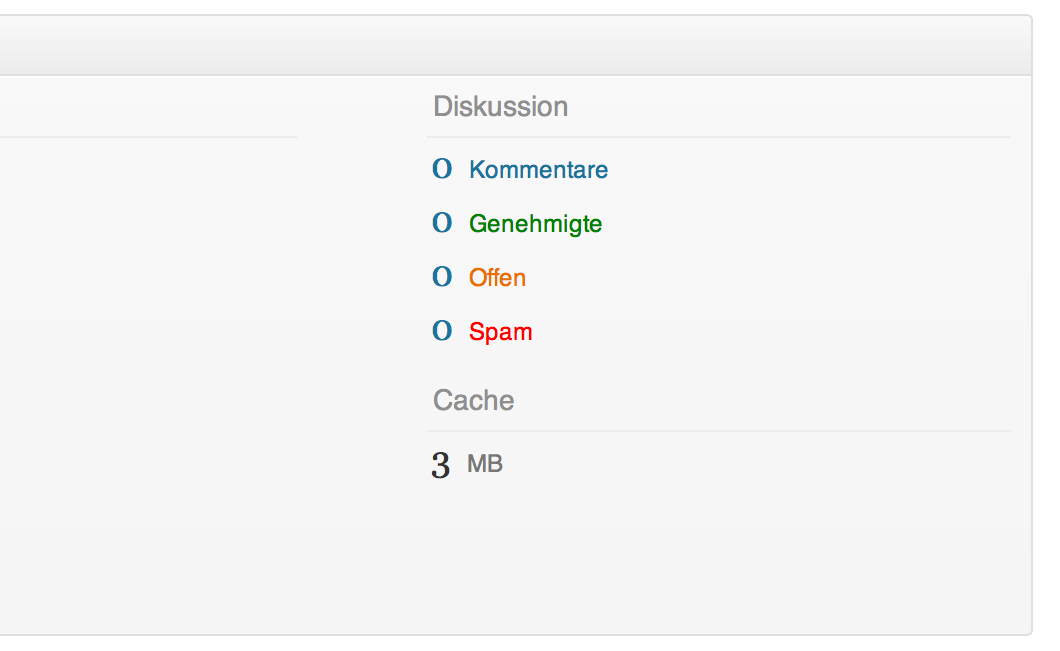
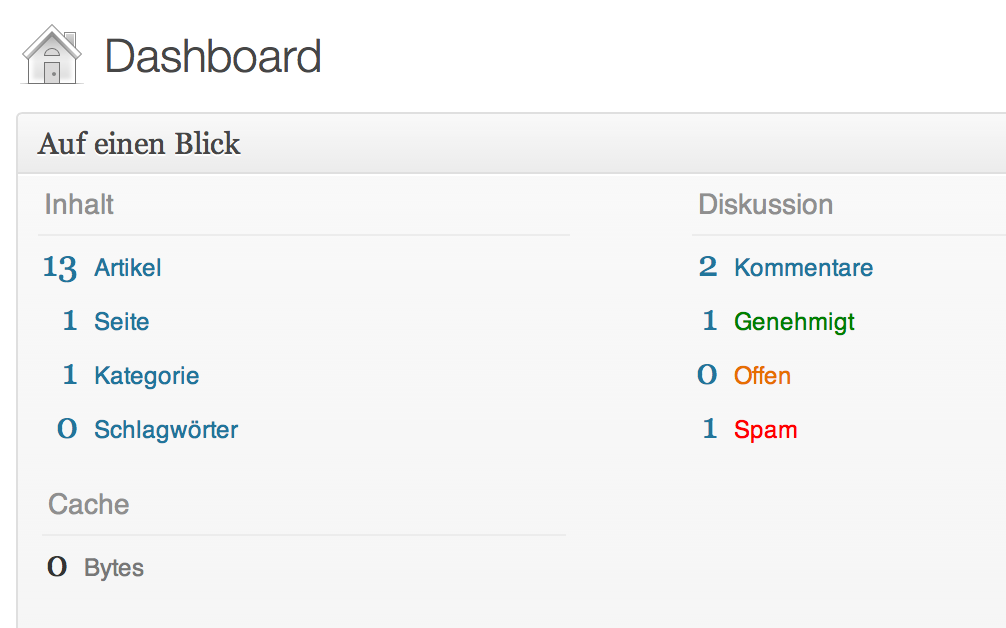
Umpositionierung der Cache-Gesamtgröße auf die linke Seite
git-svn-id: https://plugins.svn.wordpress.org/cachify/trunk@586083 b8457f37-d9ea-0310-8a92-e5e31aec5664

diff --git a/css/style.css b/css/style.css
@@ -1,1 +1,1 @@
-#icon-cachify{width:32px;height:32px;background:url('../img/icon@2x.png');background-size:100%;}#wp-admin-bar-cachify .ab-icon{float:left;width:16px;height:16px;position:relative;margin-top:6px;background:url(../img/trash@2x.png);background-size:100%;}#cachify_main .table{width:460px;height:1%;margin:20px 0 0;padding:0 0 5px;overflow:hidden;border:1px solid #dfdfdf;}#cachify_main .form-table{margin:0;}#cachify_main .form-table th{width:230px;vertical-align:middle;}#cachify_main .form-table th small{color:#8f8f8f;display:block;text-shadow:none;}#cachify_main .form-table caption{width:100%;color:#8f8f8f;margin:0 0 5px;background:whiteSmoke;line-height:20px;text-shadow:1px 1px #FFF;}#cachify_main .rounded{border-radius:3px;-moz-border-radius:3px;-webkit-border-radius:3px;}#cachify_main input,#cachify_main select{width:172px;}#cachify_main input.small{width:50px;}#cachify_main .submit{width:460px;height:1%;overflow:hidden;}#cachify_main .help{float:right;color:#bebebe;font-size:11px;text-align:right;line-height:11px;}#dashboard_right_now .table_cachify{margin-top:36px;}#dashboard_right_now .table_cachify .b{font-size:18px;padding-top:0;}
+#icon-cachify{width:32px;height:32px;background:url('../img/icon@2x.png');background-size:100%;}#wp-admin-bar-cachify .ab-icon{float:left;width:16px;height:16px;position:relative;margin-top:6px;background:url(../img/trash@2x.png);background-size:100%;}#cachify_main .table{width:460px;height:1%;margin:20px 0 0;padding:0 0 5px;overflow:hidden;border:1px solid #dfdfdf;}#cachify_main .form-table{margin:0;}#cachify_main .form-table th{width:230px;vertical-align:middle;}#cachify_main .form-table th small{color:#8f8f8f;display:block;text-shadow:none;}#cachify_main .form-table caption{width:100%;color:#8f8f8f;margin:0 0 5px;background:whiteSmoke;line-height:20px;text-shadow:1px 1px #FFF;}#cachify_main .rounded{border-radius:3px;-moz-border-radius:3px;-webkit-border-radius:3px;}#cachify_main input,#cachify_main select{width:172px;}#cachify_main input.small{width:50px;}#cachify_main .submit{width:460px;height:1%;overflow:hidden;}#cachify_main .help{float:right;color:#bebebe;font-size:11px;text-align:right;line-height:11px;}#dashboard_right_now .table_cachify{margin-top:36px;border-top:#ececec 1px solid;}#dashboard_right_now .table_cachify .b{font-size:18px;padding-top:0;}

diff --git a/css/style.dev.css b/css/style.dev.css
@@ -89,6 +89,7 @@
 
 #dashboard_right_now .table_cachify {
 	margin-top: 36px;
+	border-top: #ececec 1px solid;
 }
 #dashboard_right_now .table_cachify .b {
 	font-size: 18px;

diff --git a/inc/cachify.class.php b/inc/cachify.class.php
@@ -123,7 +123,7 @@ final class Cachify {
 				90
 			);
 			add_action(
-				'right_now_table_end',
+				'right_now_content_table_end',
 				array(
 					__CLASS__,
 					'add_count'
@@ -585,14 +585,19 @@ final class Cachify {
 		
 		/* Ausgabe */
 		echo sprintf(
-			'</table></div>
-			<div class="table table_discussion table_cachify">
-				<p class="sub">Cache</p>
-				<table>
-					<tr>
-						<td class="b">%s</td>
-						<td class="last t">%s</td>
-					</tr>',
+			'<tr>
+				<td colspan="2">
+					<div class="table table_cachify">
+						<p class="sub">Cache</p>
+						<table>
+							<tr>
+								<td class="b">%s</td>
+								<td class="last t">%s</td>
+							</tr>
+						</table>
+					</div>
+				</td>
+			</tr>',
 			(int)$format[0],
 			$format[1]
 		);
